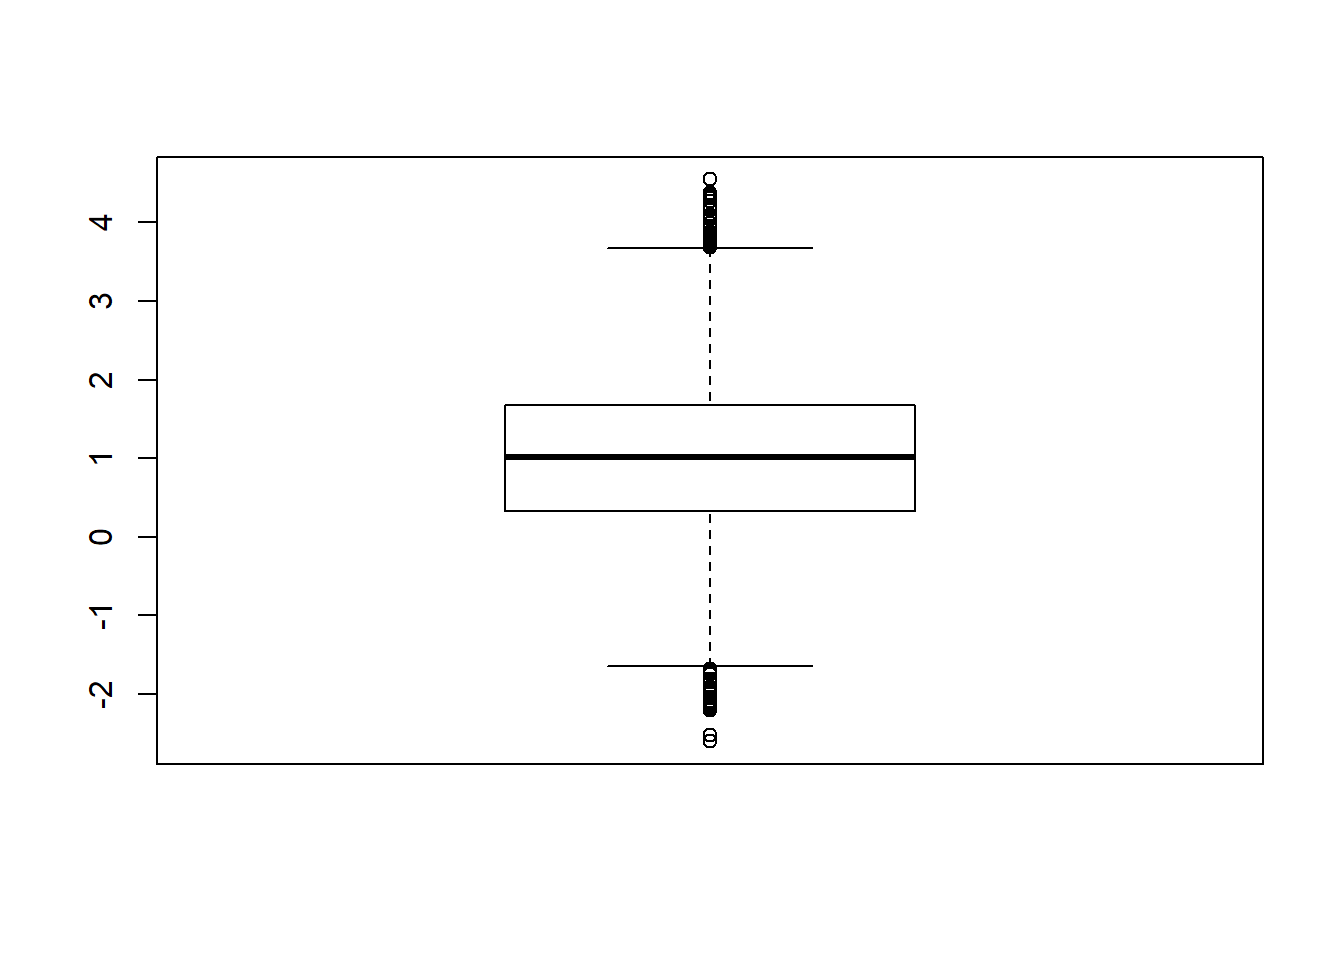
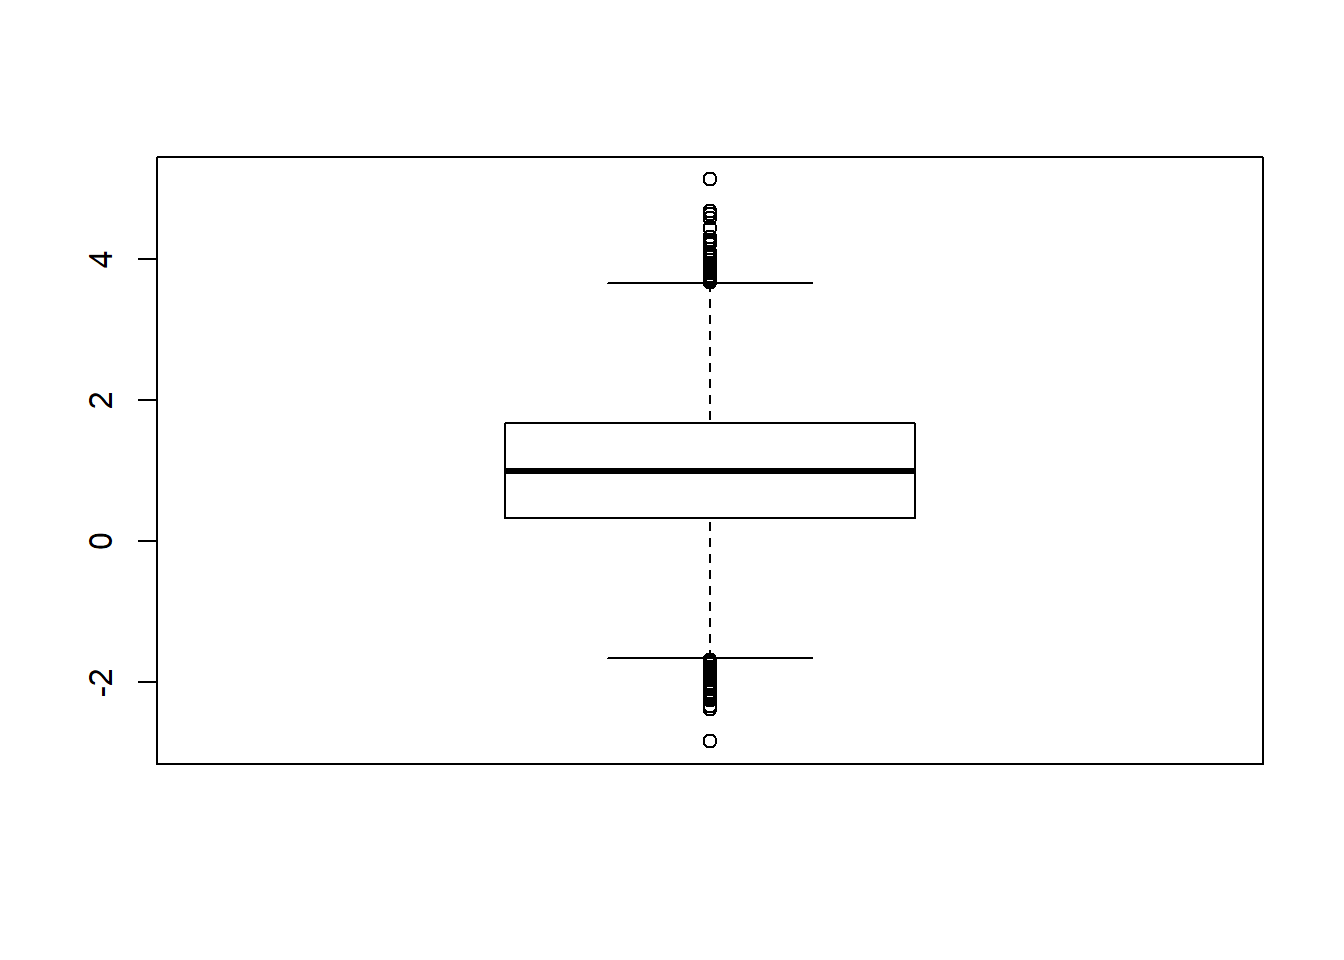
fsd

diff --git a/content/post/2019-05-10-comando-basicos-r.html b/content/post/2019-05-10-comando-basicos-r.html
@@ -247,7 +247,7 @@ Auckland, ajudaram Ross Ihaka a desenvolver a versão para Macintosh.</p>
 ## cite it when using it for data analysis. See also
 ## &#39;citation(&quot;pkgname&quot;)&#39; for citing R packages.</code></pre>
 <pre class="r"><code>Sys.time()                  # obtém data e hora exata do sistema</code></pre>
-<pre><code>## [1] &quot;2019-05-18 00:25:31 -03&quot;</code></pre>
+<pre><code>## [1] &quot;2019-05-18 00:33:35 -03&quot;</code></pre>
 </div>
 <div id="operadores-simples-e-funcoes-matematicas" class="section level2">
 <h2>Operadores simples e funções matemáticas</h2>
@@ -594,7 +594,7 @@ x &lt;- 1
 if(x == 1) {
   Sys.time()
 }</code></pre>
-<pre><code>## [1] &quot;2019-05-18 00:25:33 -03&quot;</code></pre>
+<pre><code>## [1] &quot;2019-05-18 00:33:38 -03&quot;</code></pre>
 <pre class="r"><code>if(x &lt; 0) {
   sinal &lt;- &quot;negativo&quot;
 } else if(x == 0) {
@@ -605,11 +605,25 @@ if(x == 1) {
 sinal</code></pre>
 <pre><code>## [1] &quot;positivo&quot;</code></pre>
 <pre class="r"><code>x &lt;- -3
+if(x &lt; 0) {
+  sinal &lt;- &quot;negativo&quot;
+} else if(x == 0) {
+  sinal &lt;- &quot;neutro&quot;
+} else if(x &gt; 0) {
+  sinal &lt;- &quot;positivo&quot;
+}
 sinal</code></pre>
-<pre><code>## [1] &quot;positivo&quot;</code></pre>
+<pre><code>## [1] &quot;negativo&quot;</code></pre>
 <pre class="r"><code>x &lt;- 0
+if(x &lt; 0) {
+  sinal &lt;- &quot;negativo&quot;
+} else if(x == 0) {
+  sinal &lt;- &quot;neutro&quot;
+} else if(x &gt; 0) {
+  sinal &lt;- &quot;positivo&quot;
+}
 sinal</code></pre>
-<pre><code>## [1] &quot;positivo&quot;</code></pre>
+<pre><code>## [1] &quot;neutro&quot;</code></pre>
 </div>
 <div id="funcao-for" class="section level2">
 <h2>Função <code>for</code></h2>
@@ -629,46 +643,49 @@ soma</code></pre>
 <div id="gerando-numeros-aleatorios-e-amostragem" class="section level1">
 <h1>Gerando números aleatórios e amostragem</h1>
 <pre class="r"><code>runif(100)        # Gera números aleatórios entre 0 e 1 com distribuição uniforme</code></pre>
-<pre><code>##   [1] 0.90501676 0.62873341 0.30859320 0.28270003 0.33237553 0.77358276
-##   [7] 0.71373555 0.19627600 0.65189291 0.87746604 0.69113196 0.30456553
-##  [13] 0.46263279 0.98764151 0.75864199 0.37622872 0.24239568 0.34532117
-##  [19] 0.23415585 0.94516604 0.33899463 0.16032686 0.39672335 0.04827533
-##  [25] 0.84005834 0.84696124 0.43310047 0.78225659 0.78527374 0.14951461
-##  [31] 0.05792573 0.78149855 0.45850464 0.24007789 0.76423719 0.72339912
-##  [37] 0.58116221 0.17199365 0.14254042 0.62072438 0.49371293 0.39431772
-##  [43] 0.04007757 0.08188410 0.32431056 0.31281611 0.92321173 0.78173702
-##  [49] 0.29886096 0.39522124 0.49871645 0.42571687 0.49227093 0.66467939
-##  [55] 0.28383044 0.17238477 0.81530238 0.91643176 0.70285163 0.78548316
-##  [61] 0.52725426 0.96228116 0.50011853 0.01871618 0.68802992 0.73513718
-##  [67] 0.62858638 0.24765192 0.75213023 0.62389802 0.52038593 0.61336603
-##  [73] 0.22818017 0.16121406 0.86555532 0.28989358 0.63941472 0.48598039
-##  [79] 0.02855601 0.12984208 0.97518274 0.60452792 0.36904370 0.09301566
-##  [85] 0.24951290 0.04879094 0.54998301 0.32924961 0.38096805 0.55812570
-##  [91] 0.77729416 0.55125639 0.47038685 0.43977941 0.90075126 0.49238414
-##  [97] 0.37771483 0.67947897 0.69567909 0.60874464</code></pre>
+<pre><code>##   [1] 0.610873692 0.913926068 0.680162082 0.146800535 0.416456257
+##   [6] 0.923892641 0.922562829 0.925730195 0.882185575 0.053437462
+##  [11] 0.236335794 0.849571343 0.679703845 0.232247818 0.182834056
+##  [16] 0.900210797 0.689337194 0.621580873 0.194931620 0.304397674
+##  [21] 0.528974015 0.947945568 0.799533083 0.120001335 0.141530020
+##  [26] 0.491870198 0.588324505 0.593698437 0.346399966 0.058843086
+##  [31] 0.061323119 0.892116288 0.060111933 0.153923425 0.500742998
+##  [36] 0.304264015 0.605878222 0.017694722 0.455283968 0.600203644
+##  [41] 0.749289826 0.001065987 0.546146709 0.256117808 0.669218470
+##  [46] 0.289428258 0.773622620 0.681749556 0.362981657 0.040534950
+##  [51] 0.574561655 0.752975560 0.696480261 0.432444610 0.123217041
+##  [56] 0.136107515 0.011309983 0.035077868 0.634288791 0.211991451
+##  [61] 0.380106553 0.695279329 0.654376633 0.686776934 0.520379900
+##  [66] 0.625032457 0.061159318 0.304622014 0.998029589 0.389062850
+##  [71] 0.902015552 0.494516924 0.504328512 0.769976267 0.006773335
+##  [76] 0.566215738 0.592621414 0.773613593 0.008111675 0.659882321
+##  [81] 0.571071668 0.407089920 0.276508387 0.986298551 0.230155397
+##  [86] 0.609030501 0.288046370 0.031356833 0.315006165 0.425886679
+##  [91] 0.752302075 0.830018805 0.188810661 0.935883489 0.233152399
+##  [96] 0.922137532 0.434715958 0.213627759 0.494765565 0.325735505</code></pre>
 <pre class="r"><code>rnorm(100)        # Gera números aleatórios com distribuição normal</code></pre>
-<pre><code>##   [1]  0.449082980  0.420038279 -2.272834667  1.145191340 -0.196072236
-##   [6] -1.194236386  0.819338580  0.056265525  1.037507937 -0.796610038
-##  [11] -1.043910152 -0.720832135  0.632673087  2.537246544 -1.851551755
-##  [16]  0.260288146 -0.973267108 -1.338106998 -0.750136126  0.708941228
-##  [21]  0.608918946 -0.012031079 -0.496372217 -0.975384641  0.373334122
-##  [26] -1.002960002 -0.883752928 -0.862844953 -0.308266417  0.681250505
-##  [31] -0.842730374  0.022416137 -0.956025349  0.913981543 -2.415823053
-##  [36]  0.649612043  1.363448514  0.625598506  0.707365651 -0.828967820
-##  [41]  0.345015747 -0.028388729  0.644353866 -0.128555501 -0.721711279
-##  [46] -0.570909240  0.005159048  1.444967254  1.374426337  0.878207625
-##  [51]  0.509739846 -1.528684276 -1.135625921  0.759264136 -0.478013359
-##  [56] -0.234975746 -0.954747692  0.424784379  0.972704228 -0.161258577
-##  [61] -0.699266718  0.076304334 -2.147151869 -0.134962637 -0.417096919
-##  [66]  0.457080465  1.175255658  0.908919687 -1.479447498 -0.041213628
-##  [71] -0.353480233  0.476750222  0.287497538  0.973186324 -0.338862069
-##  [76] -0.061660773  0.758991584 -0.126571616 -0.868795077  0.452053933
-##  [81]  0.822027599 -1.066087025 -0.931236108 -1.213907895  1.263879245
-##  [86] -0.614992688  0.136021502 -0.296409542  1.808681015 -1.225272312
-##  [91] -0.664997972  1.118674465 -1.531294588 -1.258740318  0.031631067
-##  [96]  0.024847347  2.348691730 -0.147757282 -0.409652353 -0.680308791</code></pre>
+<pre><code>##   [1]  0.23187519 -0.69545729  0.76764484 -0.26710385 -1.47569564
+##   [6]  1.28484420 -1.64543911  0.92732358 -0.11037240 -0.08485764
+##  [11] -0.80393456  0.16284437  2.92725434 -1.60060507 -1.64058315
+##  [16] -0.63220812 -0.82234103  0.08476315  0.35324317 -0.32309325
+##  [21] -1.00464129  0.62381601  1.89745900  0.76414327  0.17074103
+##  [26]  0.26825593 -1.83975440  0.48478532  0.84899541 -0.74047614
+##  [31]  0.01514235 -0.09912736  1.42908497  0.56360406 -1.36270746
+##  [36]  0.81169428  0.47423552 -0.01618752  0.19030069  2.04918151
+##  [41]  0.39671659  1.24694388 -0.74241603 -0.18386831 -1.06237026
+##  [46]  2.54368682  0.86595023  0.36716411 -0.57761620 -1.32451745
+##  [51]  0.26086154 -0.12607587 -1.07149639 -0.60133322 -1.74719839
+##  [56] -0.16565025  0.49523327 -1.96047133  0.50494408 -0.93444189
+##  [61] -1.47800520 -0.24183708 -1.44039694  1.44260422 -1.40259569
+##  [66]  0.22940489  0.71484297 -0.22887792  0.86377610  2.63487269
+##  [71] -0.94099927  0.25326839  0.29218287 -0.11262008 -0.96101742
+##  [76] -1.66359250  0.51922221 -1.88440805  1.35769028  0.11960909
+##  [81] -1.26022657  0.16541216 -0.08125853 -1.10399099 -1.71118664
+##  [86]  0.67560120  0.55888176 -0.76129110  1.17958048  1.18407000
+##  [91]  0.87057763 -0.02951273 -0.63731294  0.14756568  0.07880805
+##  [96]  2.19644431  1.37742687  0.60198357  0.22382184 -1.52546861</code></pre>
 <pre class="r"><code>sample(1:100, 4)  # Amostragem</code></pre>
-<pre><code>## [1] 64 88  4 90</code></pre>
+<pre><code>## [1] 77 45 54 28</code></pre>
 </div>
 <div id="graficos-de-analise-descritiva" class="section level1">
 <h1>Gráficos de Análise Descritiva</h1>
